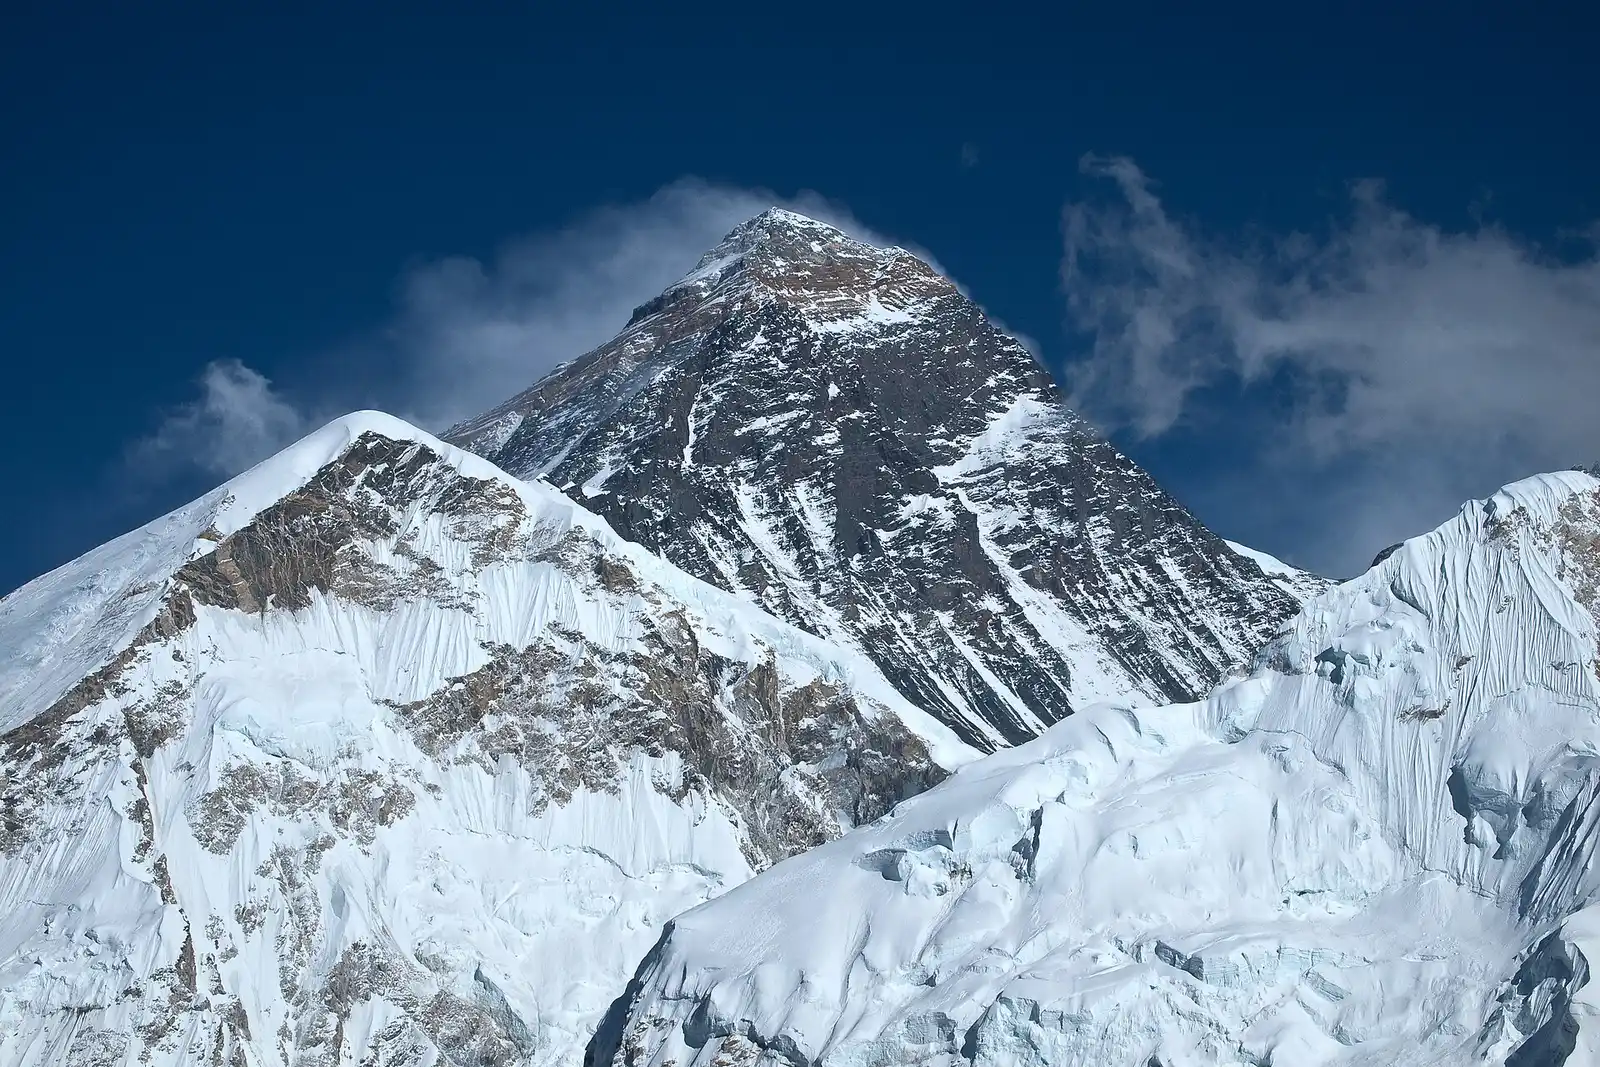
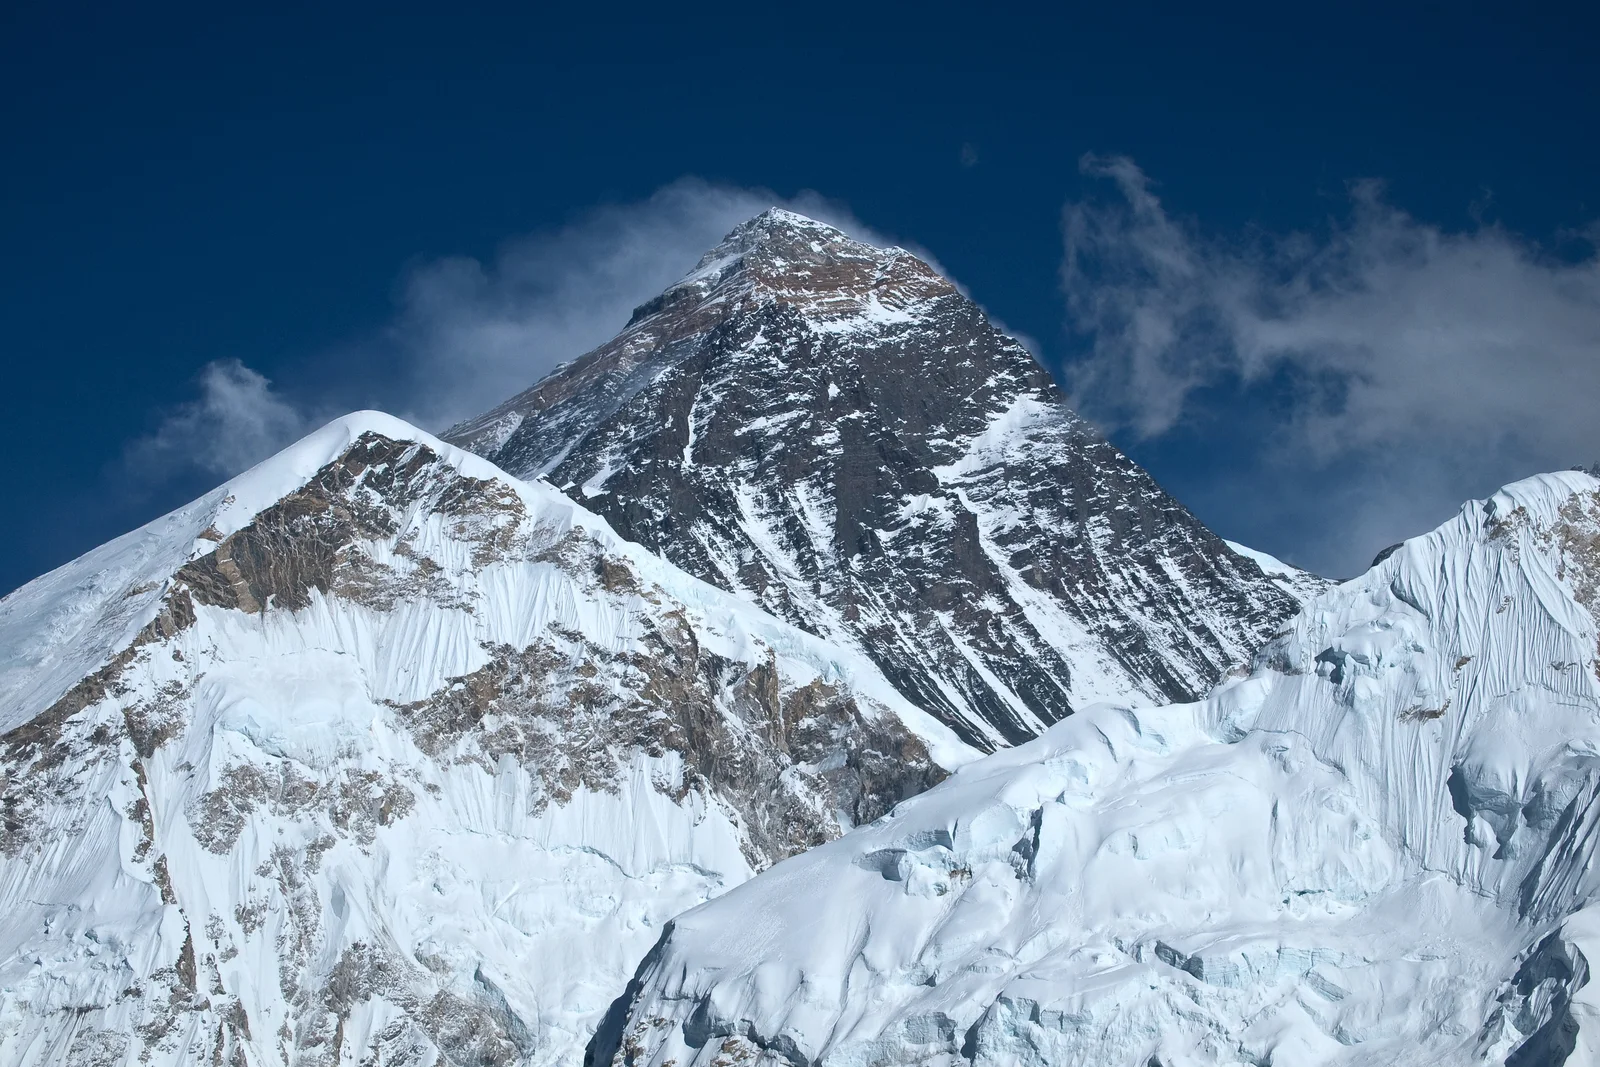
Own scrollbar with camp ticks and height on the thumb; photographs at 960/1600/2560 from high-resolution originals

diff --git a/src/ui/scrollbar.ts b/src/ui/scrollbar.ts
@@ -1,0 +1,70 @@
+// The site's own scrollbar: the browser's bar is hidden and a thin rail in the site's colours
+// takes its place. Wheel, keys and touch keep scrolling the page as usual.
+
+const MIN_THUMB = 36;
+
+export function thumbGeometry(viewport: number, page: number, scroll: number, track: number): { size: number; offset: number } {
+  if (page <= viewport || track <= 0) return { size: 0, offset: 0 };
+  const size = Math.max(MIN_THUMB, Math.round((viewport / page) * track));
+  const ratio = Math.min(1, Math.max(0, scroll / (page - viewport)));
+  return { size, offset: ratio * (track - size) };
+}
+
+/** Scroll position for a pointer at clientY, keeping the thumb centred under it. */
+export function scrollForPointer(clientY: number, rail: { top: number; height: number }, size: number, viewport: number, page: number): number {
+  const free = rail.height - size;
+  if (free <= 0) return 0;
+  const ratio = Math.min(1, Math.max(0, (clientY - rail.top - size / 2) / free));
+  return ratio * (page - viewport);
+}
+
+export function mountScrollbar(): HTMLElement {
+  const root = document.documentElement;
+  root.classList.add('own-scroll');
+  const rail = document.createElement('div');
+  rail.className = 'sb-rail';
+  rail.setAttribute('aria-hidden', 'true');
+  const thumb = document.createElement('div');
+  thumb.className = 'sb-thumb';
+  rail.append(thumb);
+  document.body.append(rail);
+
+  let size = 0;
+  const update = () => {
+    const g = thumbGeometry(innerHeight, root.scrollHeight, scrollY, rail.clientHeight);
+    size = g.size;
+    rail.hidden = g.size === 0;
+    thumb.style.height = `${g.size}px`;
+    thumb.style.transform = `translateY(${g.offset.toFixed(1)}px)`;
+  };
+  const jump = (e: PointerEvent) => {
+    const r = rail.getBoundingClientRect();
+    scrollTo({ top: scrollForPointer(e.clientY, r, size, innerHeight, root.scrollHeight), behavior: 'instant' as ScrollBehavior });
+  };
+  rail.addEventListener('pointerdown', e => { rail.setPointerCapture(e.pointerId); rail.classList.add('drag'); jump(e); });
+  rail.addEventListener('pointermove', e => { if (rail.hasPointerCapture(e.pointerId)) jump(e); });
+  rail.addEventListener('pointerup', () => rail.classList.remove('drag'));
+  rail.addEventListener('pointercancel', () => rail.classList.remove('drag'));
+
+  let ticking = false;
+  const onScroll = () => { if (!ticking) { ticking = true; requestAnimationFrame(() => { ticking = false; update(); }); } };
+  addEventListener('scroll', onScroll, { passive: true });
+  addEventListener('resize', onScroll);
+  if ('ResizeObserver' in window) new ResizeObserver(onScroll).observe(document.body);
+  update();
+  return thumb;
+}
+
+/** Marks on the rail where the given elements sit in the page (the camps of a file). */
+export function railTicks(els: HTMLElement[]): void {
+  const rail = document.querySelector<HTMLElement>('.sb-rail');
+  if (!rail) return;
+  rail.querySelectorAll('.sb-tick').forEach(t => t.remove());
+  const page = document.documentElement.scrollHeight;
+  for (const el of els) {
+    const t = document.createElement('i');
+    t.className = 'sb-tick';
+    t.style.top = `${((el.getBoundingClientRect().top + scrollY) / page) * 100}%`;
+    rail.append(t);
+  }
+}

diff --git a/src/ui/shell.ts b/src/ui/shell.ts
@@ -1,14 +1,20 @@
 import { FILES, MOUNTAINS, type FileId, type Lang } from '../content/mountains';
 import { SOURCES } from '../content/sources';
 import { LANGS, pickLang, t, type Key } from '../i18n';
+import { mountScrollbar } from './scrollbar';
 
 export const PHONE = '+39 0471 000 849';
 export const TEL = 'tel:+390471000849';
 export const BASE = import.meta.env.BASE_URL;
 export const fileUrl = (id: FileId) => `${BASE}${id}/`;
+/** The photo widths on the site, for srcset. */
+export const photoSet = (name: string) => `src="${BASE}photos/${name}-1600.webp" srcset="${[960, 1600, 2560].map(w => `${BASE}photos/${name}-${w}.webp ${w}w`).join(', ')}"`;
 export const esc = (s: string) => s.replace(/[&<>"]/g, c => ({ '&': '&amp;', '<': '&lt;', '>': '&gt;', '"': '&quot;' }[c]!));
 
 let lang: Lang = 'en';
+let thumb: HTMLElement | null = null;
+/** Text on the scrollbar thumb, or nothing. */
+export const setThumbLabel = (text?: string) => { if (!thumb) return; if (text) thumb.dataset.label = text; else delete thumb.dataset.label; };
 const listeners: ((l: Lang) => void)[] = [];
 export const getLang = () => lang;
 export const onLang = (cb: (l: Lang) => void) => { listeners.push(cb); };
@@ -41,7 +47,7 @@ export function header(active?: FileId): string {
 export function footer(): string {
   const src = Object.entries(SOURCES).map(([, s]) => `<li><a href="${esc(s.url)}" rel="noopener">${esc(s.title)}</a></li>`).join('');
   return `<footer class="foot">
-    <div class="foot-call"><img class="night" src="${BASE}photos/night-1600.webp" alt="" width="1600" height="1074" loading="lazy"><p class="mono" data-t="call.title"></p><a class="big-phone" href="${TEL}">${PHONE}</a><p data-t="call.lead"></p></div>
+    <div class="foot-call"><img class="night" ${photoSet('night')} sizes="100vw" alt="" width="1600" height="1074" loading="lazy"><p class="mono" data-t="call.title"></p><a class="big-phone" href="${TEL}">${PHONE}</a><p data-t="call.lead"></p></div>
     <div class="foot-cols">
       <div><h2 class="mono" data-t="foot.sources"></h2><ul class="src">${src}</ul><p class="mono small" data-t="foot.terrain"></p></div>
       <div><h2 class="mono" data-t="foot.credits"></h2><ul class="src" id="credits"></ul></div>
@@ -58,6 +64,7 @@ export const creditFor = (name: string) => credits.find(c => c.name === name);
 export async function boot(active?: FileId): Promise<void> {
   document.body.insertAdjacentHTML('afterbegin', header(active));
   document.body.insertAdjacentHTML('beforeend', footer());
+  thumb = mountScrollbar();
   document.querySelectorAll<HTMLButtonElement>('[data-lang]').forEach(b => b.addEventListener('click', () => setLang(b.dataset.lang as Lang)));
   onLang(l => {
     document.querySelectorAll<HTMLElement>('[data-name]').forEach(el => { el.textContent = MOUNTAINS[el.dataset.name as FileId].name[l]; });

diff --git a/src/file.ts b/src/file.ts
@@ -4,7 +4,8 @@ import { SOURCES } from './content/sources';
 import { num, t } from './i18n';
 import { oxygenShare } from './oxygen';
 import { mountTerrain } from './terrain/scene';
-import { boot, BASE, creditFor, esc, fileUrl, getLang, onLang, rise } from './ui/shell';
+import { boot, BASE, creditFor, esc, fileUrl, getLang, onLang, photoSet, rise, setThumbLabel } from './ui/shell';
+import { railTicks } from './ui/scrollbar';
 import { dossier, mountClearance } from './ui/dossier';
 
 const id = document.body.dataset.file as FileId;
@@ -48,7 +49,7 @@ function render(l: Lang) {
     </li>`).join('');
   const next = FILES[FILES.indexOf(id) + 1];
   document.getElementById('details')!.innerHTML = `
-    <figure class="photo"><img src="${BASE}photos/${id}-1600.webp" alt="${esc(creditFor(id)?.alt[l] ?? m.name[l])}" width="1600" height="1066" loading="lazy"><figcaption class="mono small">${esc(creditFor(id)?.alt[l] ?? '')}</figcaption></figure>
+    <figure class="photo"><img ${photoSet(id)} sizes="(max-width: 760px) 100vw, 560px" alt="${esc(creditFor(id)?.alt[l] ?? m.name[l])}" width="1600" height="1066" loading="lazy"><figcaption class="mono small">${esc(creditFor(id)?.alt[l] ?? '')}</figcaption></figure>
     <p class="first">${esc(t(l, 'file.first'))}: ${esc(m.firstAscent.text[l])}</p>
     ${list(t(l, 'file.who'), m.requirements.map(r => r[l]))}
     ${list(t(l, 'file.included'), m.included.map(r => r[l]))}
@@ -60,6 +61,7 @@ function render(l: Lang) {
     <nav class="next mono"><a href="${BASE}">← ${esc(t(l, 'file.all'))}</a>${next ? `<a href="${fileUrl(next)}">${esc(t(l, 'file.next', { name: MOUNTAINS[next].name[l] }))} →</a>` : ''}</nav>`;
   view.setLabels(pins(l));
   watchCamps();
+  requestAnimationFrame(() => railTicks([...document.querySelectorAll<HTMLElement>('.camp')]));
   rise();
 }
 
@@ -71,6 +73,8 @@ function watchCamps() {
     if (!e.isIntersecting) return;
     const s = Number((e.target as HTMLElement).dataset.stop ?? 0);
     view.setStop(s);
+    // the thumb reads the height of the camp in view
+    setThumbLabel(s > 0 ? `${num(getLang(), m.camps[s - 1].height)} m` : undefined);
     document.querySelectorAll('.camp').forEach(c => c.classList.toggle('on', c === e.target));
   }), { rootMargin: '-45% 0px -45% 0px' });
   document.querySelectorAll('#intro, .camp, #details').forEach(el => io!.observe(el));

diff --git a/src/styles/base.css b/src/styles/base.css
@@ -21,7 +21,8 @@
   color-scheme: dark;
 }
 * { box-sizing: border-box; }
-html { -webkit-text-size-adjust: 100%; }
+html { -webkit-text-size-adjust: 100%; scrollbar-width: none; }
+html::-webkit-scrollbar { display: none; }
 body { margin: 0; background: var(--ground); color: var(--ink); font: 400 var(--s-body)/1.5 var(--sans); overflow-x: clip; }
 h1, h2, h3, p, dl, dd, ul, ol, figure { margin: 0; }
 ul, ol { padding: 0; list-style: none; }
@@ -184,6 +185,15 @@ button, input { font: inherit; color: inherit; }
 .block li::before { content: ''; position: absolute; left: 0; top: 18px; width: 8px; height: 1px; background: var(--accent); }
 .src li { font-size: var(--s-small); }
 .next { display: flex; justify-content: space-between; gap: 16px; flex-wrap: wrap; font-size: 13px; }
+
+/* own scrollbar: a thin rail at the edge, ticks for the camps, the thumb reads the height */
+.sb-rail { position: fixed; top: 76px; bottom: 12px; right: max(2px, env(safe-area-inset-right, 0px)); width: 18px; z-index: 30; cursor: pointer; touch-action: none; }
+.sb-rail::before { content: ''; position: absolute; top: 0; bottom: 0; right: 6px; width: 1px; background: var(--line); }
+.sb-tick { position: absolute; right: 3px; width: 7px; height: 1px; background: var(--accent); }
+.sb-thumb { position: absolute; top: 0; right: 5px; width: 3px; background: var(--accent); transition: width 0.2s, right 0.2s; }
+.sb-rail:hover .sb-thumb, .sb-rail.drag .sb-thumb { width: 7px; right: 3px; }
+.sb-thumb[data-label]::before { content: attr(data-label); position: absolute; right: 14px; top: 50%; transform: translateY(-50%); padding: 4px 10px; background: var(--accent); color: var(--accent-ink); font: 600 13px/1.4 var(--mono); letter-spacing: 0.06em; white-space: nowrap; pointer-events: none; }
+@media (pointer: coarse) { .sb-rail { display: none; } }
 
 /* footer */
 .foot { position: relative; z-index: 2; padding: clamp(80px, 12vh, 140px) var(--gutter) 32px; border-top: 1px solid var(--line); background: var(--ground); }

diff --git a/tests/scrollbar.test.ts b/tests/scrollbar.test.ts
@@ -1,0 +1,38 @@
+import { afterEach, describe, expect, it } from 'vitest';
+import { mountScrollbar, scrollForPointer, thumbGeometry } from '../src/ui/scrollbar';
+
+describe('thumbGeometry', () => {
+  it('sizes the thumb by how much of the page is on screen', () => {
+    expect(thumbGeometry(900, 9000, 0, 600)).toEqual({ size: 60, offset: 0 });
+  });
+  it('moves the thumb to the bottom at the end of the page', () => {
+    const g = thumbGeometry(900, 9000, 8100, 600);
+    expect(g.offset + g.size).toBeCloseTo(600, 5);
+  });
+  it('never makes the thumb smaller than a finger can hold', () => {
+    expect(thumbGeometry(900, 900_000, 0, 600).size).toBe(36);
+  });
+  it('hides the thumb when the page fits the screen', () => {
+    expect(thumbGeometry(900, 800, 0, 600).size).toBe(0);
+  });
+});
+
+describe('scrollForPointer', () => {
+  it('maps a point on the track to a scroll position, centring the thumb', () => {
+    expect(scrollForPointer(300, { top: 0, height: 600 }, 60, 900, 9000)).toBeCloseTo(4050, 0);
+  });
+  it('clamps to the ends', () => {
+    expect(scrollForPointer(-50, { top: 0, height: 600 }, 60, 900, 9000)).toBe(0);
+    expect(scrollForPointer(9999, { top: 0, height: 600 }, 60, 900, 9000)).toBe(8100);
+  });
+});
+
+describe('mountScrollbar', () => {
+  afterEach(() => { document.body.innerHTML = ''; document.documentElement.classList.remove('own-scroll'); });
+  it('adds a rail hidden from screen readers and turns off the native bar', () => {
+    mountScrollbar();
+    const rail = document.querySelector('.sb-rail')!;
+    expect(rail.getAttribute('aria-hidden')).toBe('true');
+    expect(document.documentElement.classList.contains('own-scroll')).toBe(true);
+  });
+});

diff --git a/src/home.ts b/src/home.ts
@@ -2,7 +2,7 @@ import './styles/base.css';
 import { FILES, MOUNTAINS, type FileId, type Lang } from './content/mountains';
 import { euro, num, t } from './i18n';
 import { mountTerrain } from './terrain/scene';
-import { BASE, boot, creditFor, esc, fileUrl, getLang, onLang, rise } from './ui/shell';
+import { boot, creditFor, esc, fileUrl, getLang, onLang, photoSet, rise } from './ui/shell';
 import { dossier, mountClearance } from './ui/dossier';
 
 const reduced = matchMedia('(prefers-reduced-motion: reduce)').matches;
@@ -75,7 +75,7 @@ function renderLadder(l: Lang) {
       <p class="mono lvl">${esc(t(l, 'file.level', { level })).toUpperCase()}${m.level === 4 ? ` · ${esc(t(l, 'file.invite')).toUpperCase()}` : ''}</p>
       <h3>${esc(m.name[l])}</h3>
       <p class="mono">${num(l, m.height)} m · ${esc(t(l, 'file.weeks', { n: m.weeks }))} · ${esc(t(l, 'file.from', { price: euro(l, m.priceFrom) }))}*</p>
-      <img class="shot" src="${BASE}photos/${id}-800.webp" alt="${esc(creditFor(id)?.alt[l] ?? m.name[l])}" width="800" height="533" loading="lazy">
+      <img class="shot" ${photoSet(id)} sizes="(max-width: 760px) 100vw, (max-width: 1000px) 50vw, 25vw" alt="${esc(creditFor(id)?.alt[l] ?? m.name[l])}" width="800" height="533" loading="lazy">
       <p>${esc(m.requirements[0][l])}</p>
       <a class="mono" href="${fileUrl(id)}">${esc(t(l, 'home.open', { no: m.no }))} →</a>
     </li>`;
